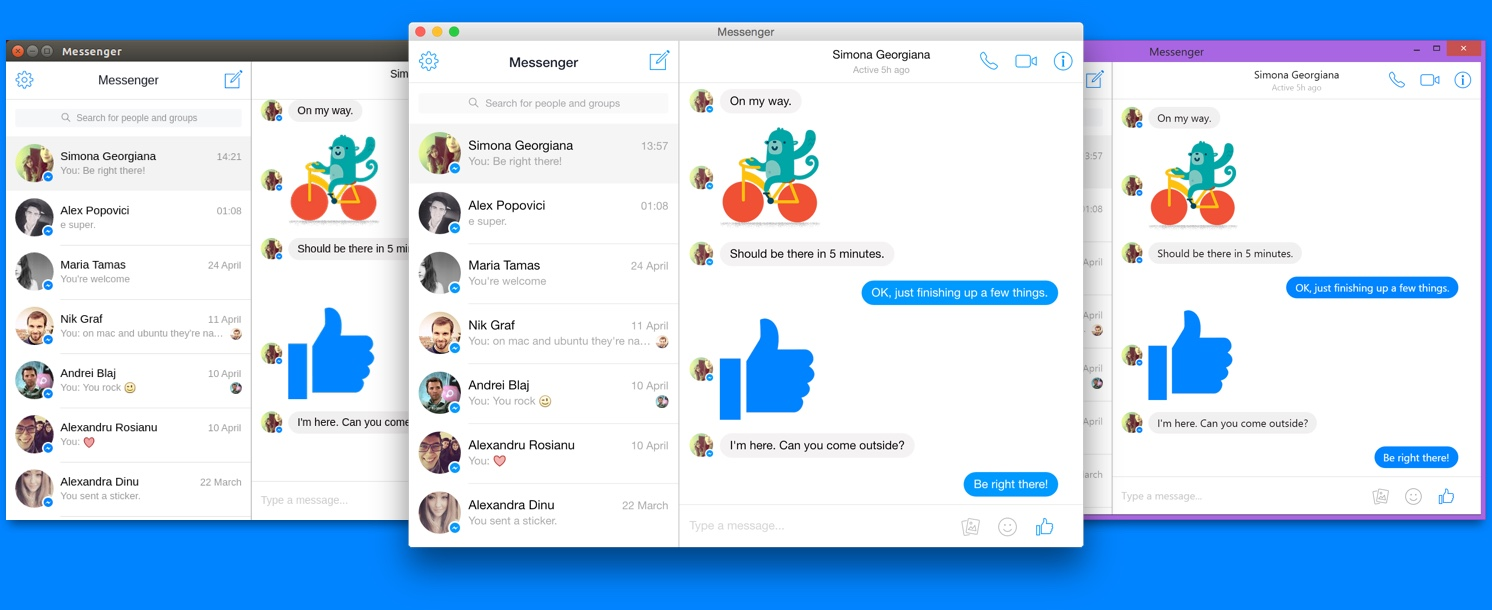
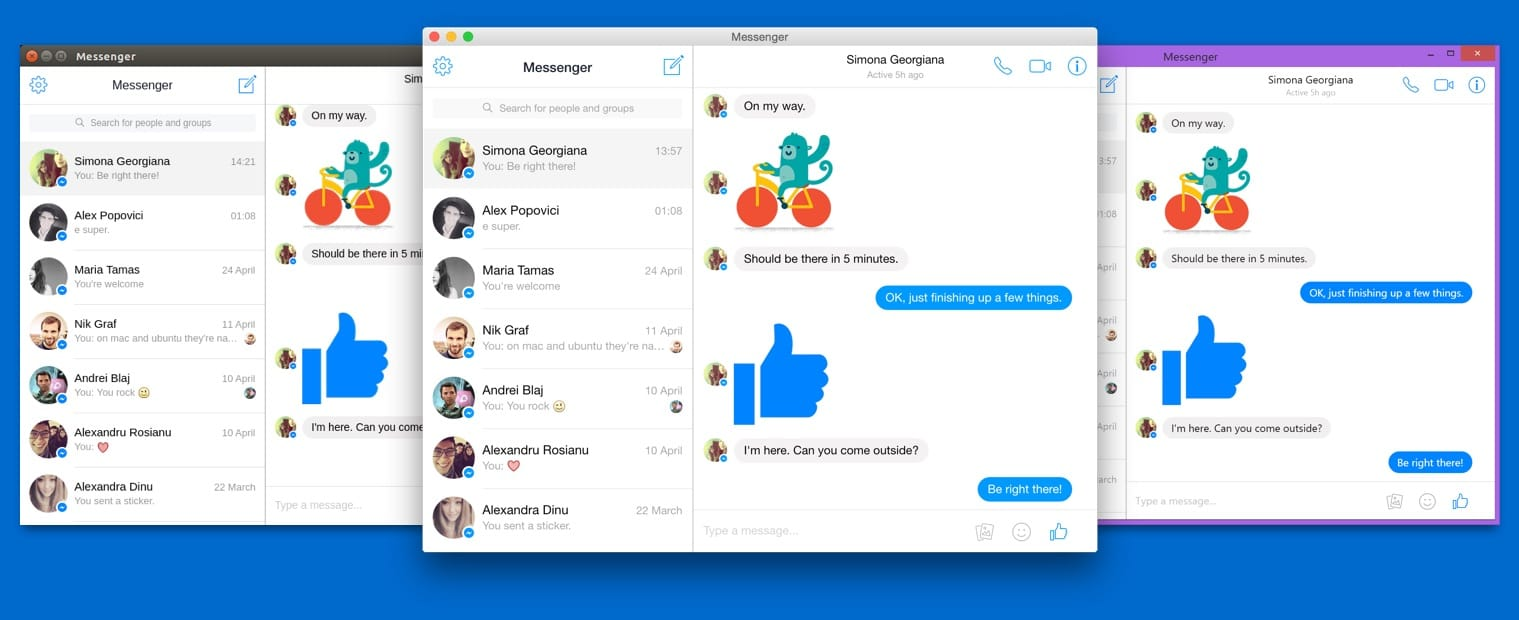
Change colors and images

diff --git a/src/sass/styles.sass b/src/sass/styles.sass
@@ -1,7 +1,7 @@
 @import ../bower_components/bourbon/dist/bourbon
 @import ../bower_components/neat/app/assets/stylesheets/neat
 
-$blue: #0084FF
+$blue: #0069CC
 $font-thin: 'HelveticaNeue-Thin', 'Helvetica Neue Light', 'Helvetica Neue', 'Segoe UI', Helvetica, Arial, 'Lucida Grande', sans-serif
 $font-normal: 'Helvetica Neue', 'Segoe UI', Helvetica, Arial, 'Lucida Grande', sans-serif
 $mobile: new-breakpoint(max-width 779px)
@@ -133,11 +133,6 @@ section#features
       margin: 15px 0 0
       font-weight: 300
 
-    span.feature
-      border-radius: 2px
-      border: 3px solid white
-      box-shadow: rgba(0, 0, 0, 0.2) 0 0 3px 1px
-
 section#download
   .subtitle
     font-weight: inherit
@@ -151,11 +146,20 @@ section#download
   .osx svg
     bottom: -1px
 
+  .titlecontainer h2
+    margin-bottom: 20px
+
   ul.container
     max-width: 500px
   li
     @include span-columns(6)
     padding: 0 5px 20px
+
+  .notice
+    color: rgba(0, 0, 0, 0.6)
+    display: block
+    font-size: 12px
+    margin-bottom: 30px
 
   a
     width: 100%
@@ -247,11 +251,16 @@ section#contact
       border-bottom-right-radius: 2px
 
 section#share
-  padding-bottom: 160px
-  background: url(img/footer.png)
   background-position: bottom center
   background-repeat: no-repeat
   background-size: 980px auto
+
+  .container
+    max-width: 600px
+
+  .button
+    margin-bottom: 0
+    margin-top: 30px
 
   li.widget
     margin-bottom: 30px
@@ -277,28 +286,13 @@ section#share
 
 footer
   background-color: #323940
+  text-align: center
+  padding: 10px 0
 
   p
+    text-align: center
     font-size: 14px
     color: rgba(255, 255, 255, 0.4)
-
-  @include media($mobile)
-    text-align: center
-    padding: 16px 0
-
-    p
-      margin: 0
-      line-height: 24px
-
-  @include media($desktop)
-    p
-      line-height: 30px
-
-    .left
-      float: left
-
-    .right
-      float: right
 
 .clearfix:before, .clearfix:after
     content: ' '
